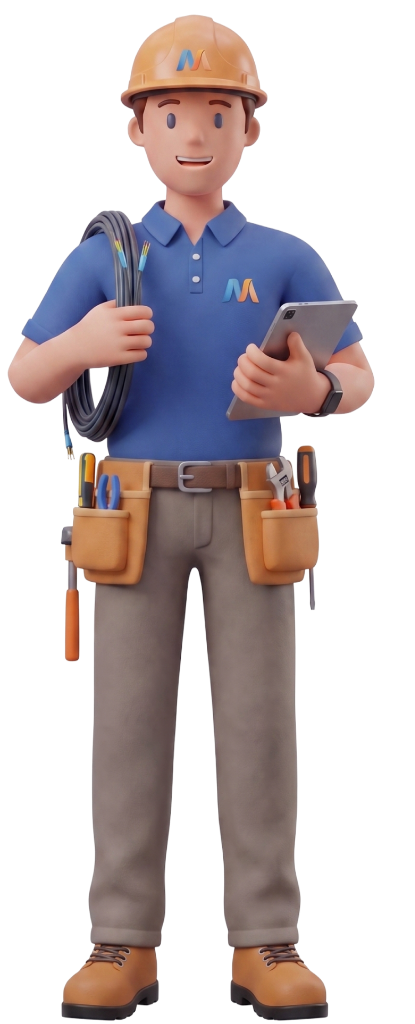
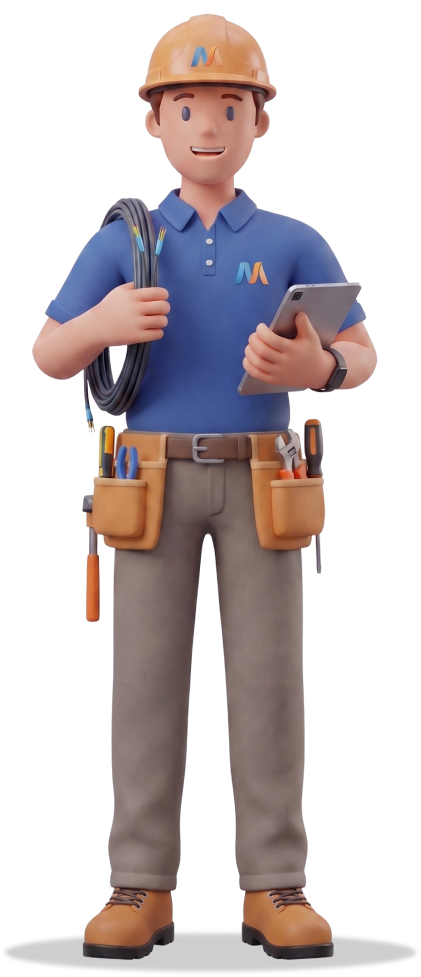
feat: Renomeando páginas Suporte -> Central e Central -> Blog. Removendo página Planos.

Changed region(s): [[0.0, 0.0, 0.9831, 1.0]]

diff --git a/src/app/[lang]/central/page.tsx b/src/app/[lang]/central/page.tsx
@@ -1,38 +1,136 @@
-import { PageHero } from "@/components/shared/page-hero";
-import { Breadcrumb } from "@/components/shared/breadcrumb";
-import { SectionHeading } from "@/components/shared/section-heading";
-import { QuickLinks } from "@/components/shared/quick-links";
 import { getDictionary } from "@/dictionaries";
 import type { Locale } from "@/middleware";
+import { HelpFaqAccordion } from "@/components/sections/help-faq-accordion";
+import { MessageCircle, FileText, Wifi, HelpCircle } from "lucide-react";
+import { TrackedAnchor } from "@/components/shared/tracked-link";
 
-export default async function CentralPage(props: { params: Promise<{ lang: string }> }) {
+export default async function SuportePage(props: { params: Promise<{ lang: string }> }) {
   const params = await props.params;
   const lang = params.lang as Locale;
   const dict = await getDictionary(lang);
-  const t = dict.centralPage;
+  const t = dict.suportePage;
+
+  // The blog posts (reusing from homepage logic)
+  const blogPosts = [
+    {
+      title: dict.newLayout.blogPost1Title,
+      image: "/1.webp",
+      desc: dict.newLayout.blogPost1Desc
+    },
+    {
+      title: dict.newLayout.blogPost2Title,
+      image: "/2.webp",
+      desc: dict.newLayout.blogPost2Desc
+    },
+    {
+      title: dict.newLayout.blogPost3Title,
+      image: "/3.webp",
+      desc: dict.newLayout.blogPost3Desc
+    },
+    {
+      title: dict.newLayout.blogPost4Title,
+      image: "/4.webp",
+      desc: dict.newLayout.blogPost4Desc
+    }
+  ];
 
   return (
-    <>
-      <PageHero
-        title={t.title}
-        subtitle={t.subtitle}
-        badge={t.badge}
-        bgImage="/central-bg.png"
-      />
+    <div className="w-full">
+      {/* 1. Hero Section */}
+      <section className="bg-white pt-32 lg:pt-40 relative">
+        <div className="container mx-auto px-6 max-w-7xl relative z-20">
+          {/* Header Text */}
+          <div className="max-w-2xl pb-10">
+            <h1 className="text-4xl md:text-[3.5rem] font-extrabold uppercase tracking-tight leading-none mb-6">
+              <span className="text-[#ff6a00]">CENTRAL DE </span>
+              <span className="text-[#5b5175]">AJUDA</span>
+            </h1>
+            <p className="text-lg md:text-xl text-slate-600 font-medium leading-relaxed max-w-md">
+              Nossa equipe técnica está disponível para resolver qualquer inconveniente.
+            </p>
+          </div>
+        </div>
 
-      <div className="container mx-auto px-6 py-6 max-w-7xl">
-        <Breadcrumb dict={dict} items={[{ label: dict.nav.portal }]} />
-      </div>
+        {/* The Colored Banner Area */}
+        <div className="relative w-full mt-4">
+          {/* Absolute Backgrounds */}
+          <div className="absolute inset-0 bg-gradient-to-r from-[#ff6a00] from-[40%] via-[#7a597a] via-[55%] to-[#0a3dd2] to-[100%]"></div>
+          
+          {/* Content inside the Banner */}
+          <div className="container mx-auto px-6 max-w-7xl relative z-20 flex flex-col md:flex-row">
+            {/* Left Buttons Container */}
+            <div className="w-full md:w-[45%] py-12 flex flex-col gap-4 pr-4 justify-center">
+              <TrackedAnchor href="https://wa.me/595XXXXXXXXX" target="_blank" eventName="clicou_whatsapp_suporte" className="bg-white text-[#4a4e6d] font-bold py-3 px-5 rounded-lg w-full max-w-[260px] text-left flex items-center shadow-md hover:bg-slate-50 transition-colors">
+                <MessageCircle className="w-5 h-5 min-w-[20px] mr-3 text-[#4a4e6d]" /> 990 51789
+              </TrackedAnchor>
+              <TrackedAnchor href={`/${lang}/central`} eventName="clicou_2via_suporte" className="bg-white text-[#4a4e6d] font-bold py-3 px-5 rounded-lg w-full max-w-[260px] text-left flex items-center shadow-md hover:bg-slate-50 transition-colors">
+                <FileText className="w-5 h-5 min-w-[20px] mr-3 text-[#4a4e6d]" /> 2º via de boleto
+              </TrackedAnchor>
+              <TrackedAnchor href={`/${lang}/planos`} eventName="clicou_contratar_suporte" className="bg-white text-[#4a4e6d] font-bold py-3 px-5 rounded-lg w-full max-w-[260px] text-left flex items-center shadow-md hover:bg-slate-50 transition-colors">
+                <Wifi className="w-5 h-5 min-w-[20px] mr-3 text-[#4a4e6d]" /> Contratar um plano
+              </TrackedAnchor>
+            </div>
 
-      <section className="py-16 bg-slate-50">
-        <div className="container mx-auto px-6 max-w-7xl">
-          <SectionHeading
-            title={t.whatCanIDo}
-            subtitle={t.whatCanIDoDesc}
-          />
-          <QuickLinks lang={lang} dict={dict} />
+            {/* Right Woman Image Container */}
+            <div className="w-full md:w-[55%] relative min-h-[300px] flex justify-end">
+              {/* Anchor the image to the bottom, scale to a max width so she is huge and overlaps the top */}
+              <img 
+                src="/suporte-woman.png" 
+                alt="Atendente Maluga" 
+                className="absolute bottom-[-10px] md:bottom-0 right-[-30px] md:right-0 lg:right-[5%] w-[450px] md:w-[600px] lg:w-[700px] xl:w-[800px] h-auto object-contain z-20 pointer-events-none" 
+              />
+            </div>
+          </div>
         </div>
       </section>
-    </>
+
+      {/* 2. FAQ Section */}
+      <section className="bg-[#021f59] pt-16 md:pt-24 pb-16 md:pb-24 relative overflow-y-visible overflow-x-clip">
+        <div className="container mx-auto px-6 max-w-7xl relative z-10 flex flex-col lg:flex-row gap-8">
+          {/* Left Column: FAQ Accordion */}
+          <div className="w-full lg:w-7/12 xl:w-8/12 z-20 relative">
+            <div className="flex items-center gap-3 mb-8">
+              <HelpCircle className="text-white w-8 h-8" />
+              <h2 className="text-3xl md:text-4xl font-bold text-white tracking-tight">Perguntas frequentes</h2>
+            </div>
+            <HelpFaqAccordion items={t.faqs} />
+          </div>
+          
+          {/* Right Column: Technician Illustration */}
+          <div className="hidden lg:flex w-full lg:w-5/12 xl:w-4/12 justify-center items-start pt-2">
+            <img 
+              src="/suporte-tech.png" 
+              alt="Técnico Maluga" 
+              className="w-auto h-[450px] xl:h-[520px] object-contain pointer-events-none" 
+            />
+          </div>
+        </div>
+      </section>
+
+      {/* 3. Blog Section */}
+      <section className="py-16 md:py-24 bg-[#e8f2fc]">
+        <div className="container mx-auto px-6 max-w-7xl">
+          <div className="mb-10 inline-flex items-center bg-white rounded-full px-6 py-3 shadow-sm">
+            <img src={dict.newLayout.blogTitleImg} alt={dict.newLayout.blogTitleImgAlt} className="h-8 md:h-10 object-contain" />
+          </div>
+
+          <div className="grid grid-cols-1 sm:grid-cols-2 lg:grid-cols-4 gap-6">
+            {blogPosts.map((post, index) => (
+              <div key={index} className="flex flex-col group cursor-pointer">
+                <div className="rounded-2xl overflow-hidden mb-4 shadow-sm aspect-video">
+                  <img src={post.image} alt={post.title} className="w-full h-full object-cover group-hover:scale-105 transition-transform duration-500" />
+                </div>
+                <h3 className="font-bold text-[#0a153b] text-base mb-2 group-hover:text-[#ff6a00] transition-colors">
+                  {post.title}
+                </h3>
+                <p className="text-slate-500 text-xs leading-relaxed">
+                  {post.desc}
+                </p>
+              </div>
+            ))}
+          </div>
+        </div>
+      </section>
+    </div>
   );
 }

diff --git a/src/app/[lang]/blog/page.tsx b/src/app/[lang]/blog/page.tsx
@@ -1,0 +1,38 @@
+import { PageHero } from "@/components/shared/page-hero";
+import { Breadcrumb } from "@/components/shared/breadcrumb";
+import { SectionHeading } from "@/components/shared/section-heading";
+import { QuickLinks } from "@/components/shared/quick-links";
+import { getDictionary } from "@/dictionaries";
+import type { Locale } from "@/middleware";
+
+export default async function CentralPage(props: { params: Promise<{ lang: string }> }) {
+  const params = await props.params;
+  const lang = params.lang as Locale;
+  const dict = await getDictionary(lang);
+  const t = dict.centralPage;
+
+  return (
+    <>
+      <PageHero
+        title={t.title}
+        subtitle={t.subtitle}
+        badge={t.badge}
+        bgImage="/central-bg.png"
+      />
+
+      <div className="container mx-auto px-6 py-6 max-w-7xl">
+        <Breadcrumb dict={dict} items={[{ label: dict.nav.portal }]} />
+      </div>
+
+      <section className="py-16 bg-slate-50">
+        <div className="container mx-auto px-6 max-w-7xl">
+          <SectionHeading
+            title={t.whatCanIDo}
+            subtitle={t.whatCanIDoDesc}
+          />
+          <QuickLinks lang={lang} dict={dict} />
+        </div>
+      </section>
+    </>
+  );
+}

diff --git a/src/components/layout/header.tsx b/src/components/layout/header.tsx
@@ -52,17 +52,8 @@ export function Header({ lang, dict }: { lang: Locale; dict: any }) {
 
   const navLinks = [
     { label: dict.nav.home, href: "" },
-    {
-      label: dict.nav.plans,
-      href: "/planos",
-      children: [
-        { label: dict.nav.residential, href: "/planos/residencial" },
-        { label: dict.nav.business, href: "/planos/empresarial" },
-        { label: dict.nav.addons, href: "/planos/adicionais" },
-      ],
-    },
-    { label: dict.nav.support, href: "/suporte" },
-    { label: dict.nav.portal, href: "/central" },
+    { label: dict.nav.support, href: "/central" },
+    { label: dict.nav.portal, href: "/blog" },
     { label: dict.nav.about, href: "/sobre" },
   ];
 
